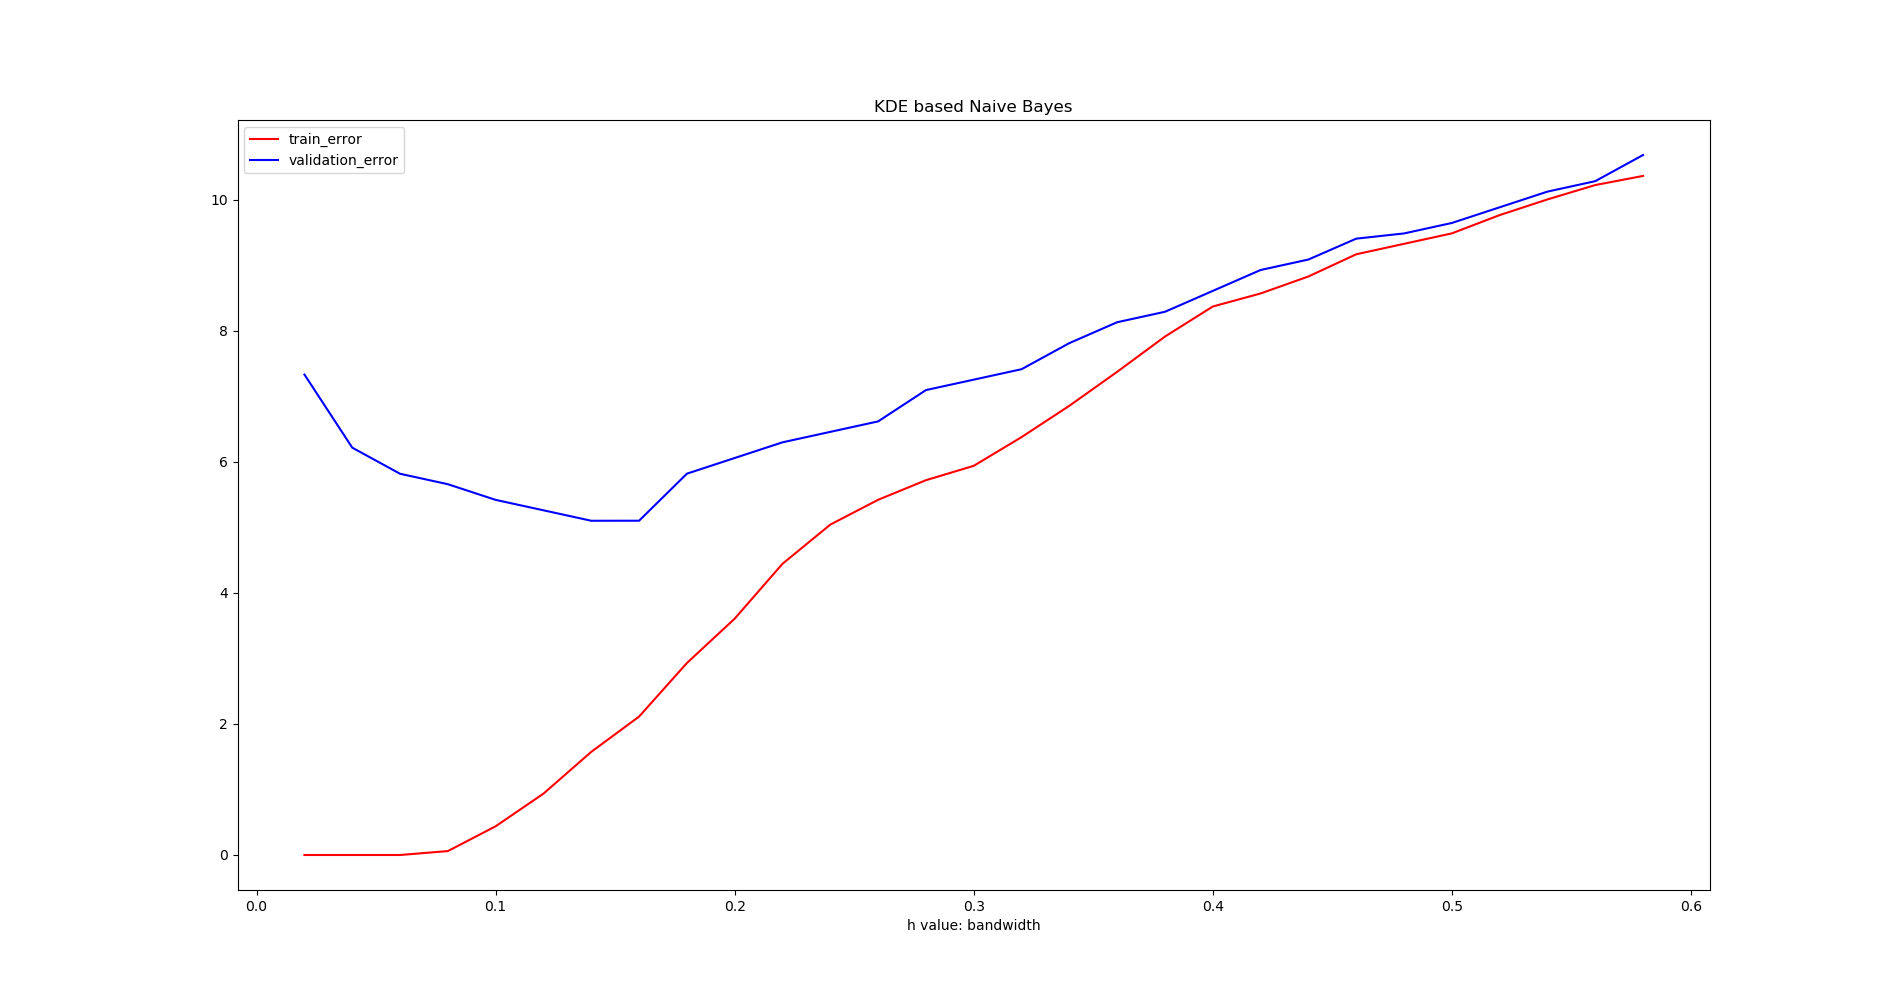
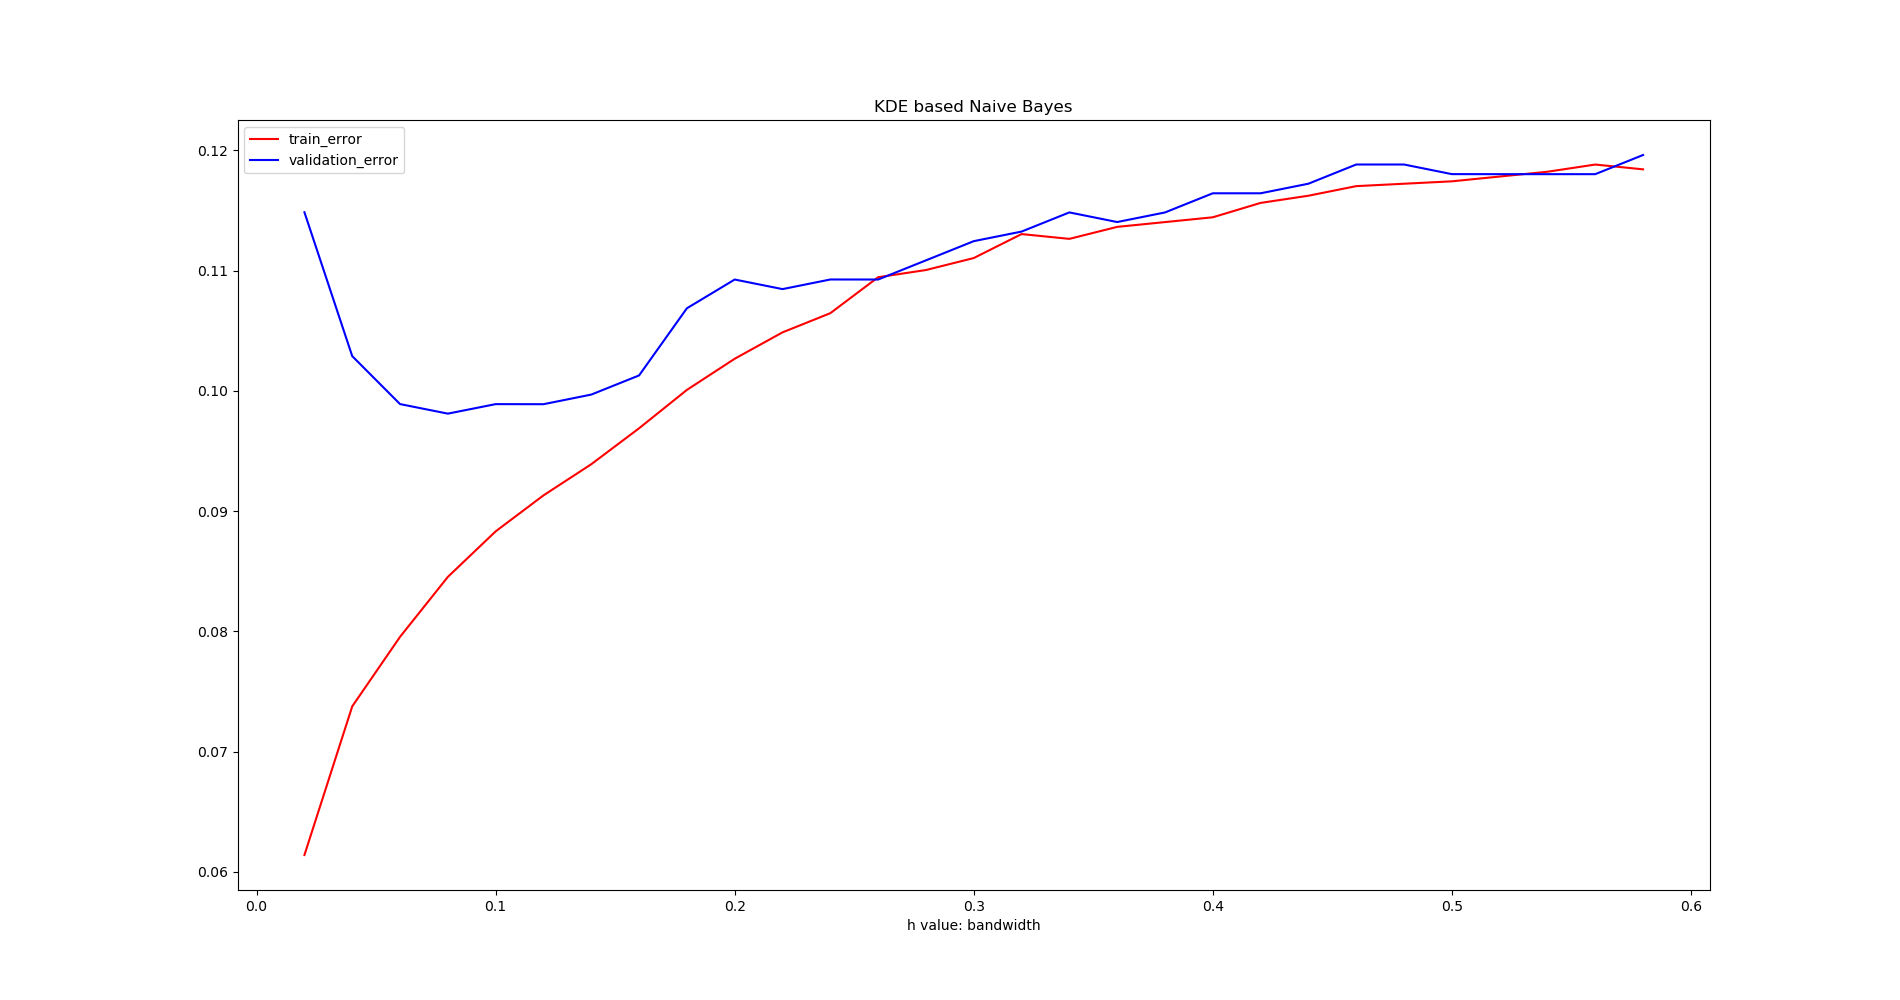
Feature separated KDE done
it works babyyyyyyyyyyyyy

diff --git a/Project_1/TP1.py b/Project_1/TP1.py
@@ -37,7 +37,7 @@ MAX_KDE = 60
 FEATS = 4
 
 
-def plot_errs(x, y_train, y_valid, title, x_title,filename):
+def plot_errs(x, y_train, y_valid, title, x_title, filename):
     fig, ax = plt.subplots(figsize=(19, 10))
 
     ax.plot(x, y_train, '-r')
@@ -49,6 +49,7 @@ def plot_errs(x, y_train, y_valid, title, x_title,filename):
     plt.savefig(filename)
     plt.show()
     plt.close(fig)
+
 
 def standardize(_train_data, _test_data):
     _train_features = _train_data[:, 0:4]
@@ -77,25 +78,39 @@ def custom_naive_bayes(_train_data, _test_data, _h):
 
         return class0, class1
 
+    def calc_distrib(x_train, x_test):
+        kde = KernelDensity(bandwidth=_h)
+        x = np.reshape(x_train, (-1, 1))
+        y = np.reshape(x_test, (-1, 1))
+        kde.fit(x)
+        return kde.score_samples(y)
+
     def get_score(predicted, mask, n=False):
         return accuracy_score(predicted, mask, normalize=n)
 
-    def classify(features_class0, log_class0, features_class1, log_class1, indexes):
+    def create_distrib_matrix(feats_train, feats_test):
+        log_features = np.zeros(feats_test.shape)
+        for feat in range(FEATS):
+            log_features[:, feat] = calc_distrib(feats_train[:, feat], feats_test[:, feat])
+        return log_features
+
+    def classify(features_class0, _log_class0, features_class1, _log_class1, indexes):
         classes = np.zeros((len(indexes[0]),))
-        to_classify_class0 = features_class0[indexes]
-        to_classify_class1 = features_class1[indexes]
-        for row in range(to_classify_class0.shape[0]):
-            class0_sum = log_class0 + to_classify_class0[row]
-            class1_sum = log_class1 + to_classify_class1[row]
+
+        counter = 0
+        for index in indexes[0]:
+            class0_sum = _log_class0
+            class1_sum = _log_class1
+            for feat in range(FEATS):
+                class0_sum = class0_sum + features_class0[index, :][feat]
+                class1_sum = class1_sum + features_class1[index, :][feat]
             if class0_sum < class1_sum:
-                classes[row] = 1
+                classes[counter] = 1
+
+            counter += 1
         return classes
 
-    def custom_naive_bayes_score(data_set, log_features_class0, log_features_class1):
-
-        total_len = log_features_class1.shape[0] + log_features_class0.shape[0]
-        class0_log = np.log(class0_valid_test_points.shape[0] / total_len)
-        class1_log = np.log(class1_valid_test_points.shape[0] / total_len)
+    def custom_naive_bayes_score(data_set, log_features_class0, log_features_class1, class0_log, class1_log):
 
         classed_0 = classify(log_features_class0, class0_log, log_features_class1, class1_log, np.where(data_set[:, FEATS] == 0))
         classed_1 = classify(log_features_class0, class0_log, log_features_class1, class1_log, np.where(data_set[:, FEATS] == 1))
@@ -106,32 +121,26 @@ def custom_naive_bayes(_train_data, _test_data, _h):
         hits = get_score(predicted, hit_mask)
         hit_percentage = get_score(predicted, hit_mask, True) * 100
         errors = get_score(predicted, error_mask)
-        error_percentage = get_score(predicted, error_mask, True) * 100
+        error_percentage = get_score(predicted, error_mask, True)
+
         return error_percentage
-    '''
-    print("________________________")
-    print('Hits: ' + str(hits))
-    print('Hit %: ' + str(hit_percentage))
-    print('Errors: ' + str(errors))
-    print('Error %: ' + str(error_percentage))
-    print("________________________")
-    '''
-    kde_1 = KernelDensity(bandwidth=_h)
-    kde_0 = KernelDensity(bandwidth=_h)
 
     class0_train_points, class1_train_points = separate_classes(_train_data[:, 0:FEATS], _train_data[:, FEATS])
-    class0_valid_test_points, class1_valid_test_points = separate_classes(_test_data[:, 0:FEATS], _test_data[:, FEATS])
 
-    kde_0.fit(class0_train_points)
-    kde_1.fit(class1_train_points)
-    train_log_features_class0 = kde_0.score_samples(_train_data[:, 0: FEATS])
-    train_log_features_class1 = kde_1.score_samples(_train_data[:, 0: FEATS])
-    test_log_features_class0 = kde_0.score_samples(_test_data[:, 0: FEATS])
-    test_log_features_class1 = kde_1.score_samples(_test_data[:, 0: FEATS])
+    train_log_features_class0 = create_distrib_matrix(class0_train_points, _train_data[:, 0:FEATS])
 
+    train_log_features_class1 = create_distrib_matrix(class1_train_points, _train_data[:, 0:FEATS])
+
+    test_log_features_class0 = create_distrib_matrix(class0_train_points, _test_data[:, 0:FEATS])
+
+    test_log_features_class1 = create_distrib_matrix(class1_train_points, _test_data[:, 0:FEATS])
+
+    total = _train_data.shape[0]
+    log_class0 = np.log(float(class0_train_points.shape[0]) / total)
+    log_class1 = np.log(float(class1_train_points.shape[0]) / total)
     return\
-        custom_naive_bayes_score(_train_data, train_log_features_class0, train_log_features_class1),\
-        custom_naive_bayes_score(_test_data, test_log_features_class0, test_log_features_class1)
+        custom_naive_bayes_score(_train_data, train_log_features_class0, train_log_features_class1, log_class0, log_class1),\
+        custom_naive_bayes_score(_test_data, test_log_features_class0, test_log_features_class1, log_class0, log_class1)
 
 
 def cross_validation(_train_data, p_values, clf_function, kf):
